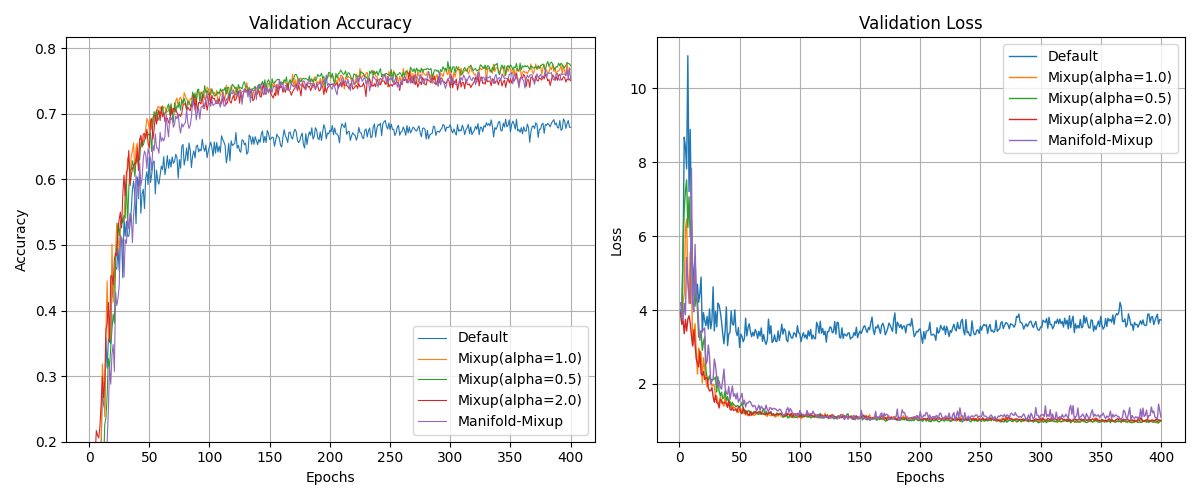
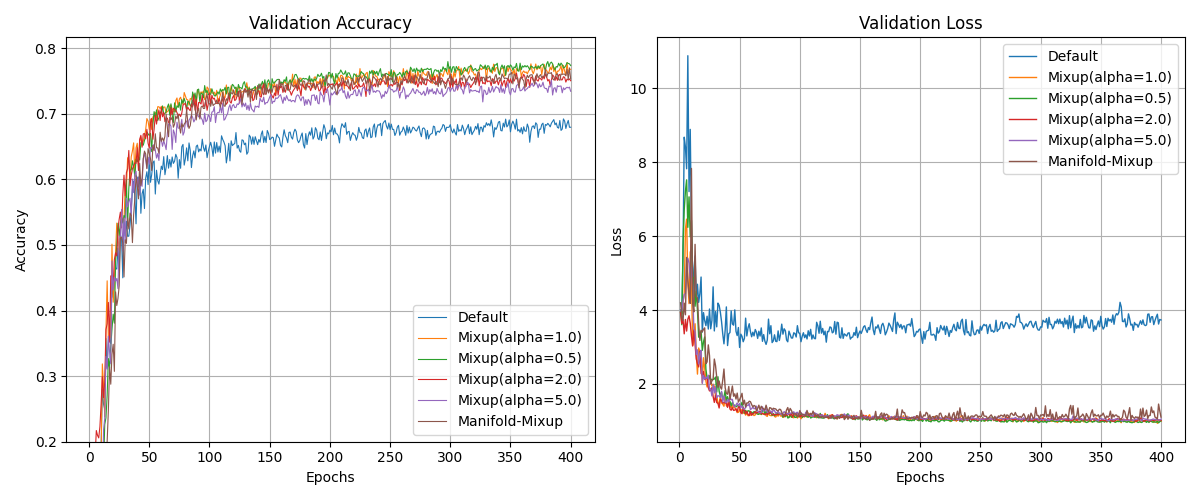
manifold mixup exp.

diff --git a/result.py b/result.py
@@ -22,6 +22,7 @@ def main():
         "Mixup",
         "Mixup(alpha=0.5)",
         "Mixup(alpha=2.0)",
+        "Mixup(alpha=5.0)",
         "Manifold-Mixup",
 
         # "Mixup-Curriculum",
@@ -91,6 +92,8 @@ def plot_comparison_graph_train(model_type, augmentations, data_type, epoch, ite
             augment = "FOMA_latent"
         elif augment == "Mixup":
             augment = "Mixup(alpha=1.0)"
+        elif augment == "Manifold-Mixup":
+            augment = "Manifold-Mixup(alpha=2.0)"
         plt.plot(epochs, train_acc, linestyle='solid', linewidth=0.8, label=f'{augment}')
         
     plt.title('Train Accuracy')
@@ -122,6 +125,8 @@ def plot_comparison_graph_train(model_type, augmentations, data_type, epoch, ite
             augment = "FOMA_latent"
         elif augment == "Mixup":
             augment = "Mixup(alpha=1.0)"
+        elif augment == "Manifold-Mixup":
+            augment = "Manifold-Mixup(alpha=2.0)"
         plt.plot(epochs, train_loss, linestyle='solid', linewidth=1, label=f'{augment}')
         
     plt.title('Train Loss')
@@ -160,6 +165,8 @@ def plot_comparison_graph(model_type, augmentations, data_type, epoch, iteration
             augment = "FOMA_latent"
         elif augment == "Mixup":
             augment = "Mixup(alpha=1.0)"
+        elif augment == "Manifold-Mixup":
+            augment = "Manifold-Mixup(alpha=2.0)"
         plt.plot(epochs, val_acc, linestyle='solid', linewidth=0.8, label=f'{augment}')
         
     plt.title('Validation Accuracy')
@@ -191,6 +198,8 @@ def plot_comparison_graph(model_type, augmentations, data_type, epoch, iteration
             augment = "FOMA_latent"
         elif augment == "Mixup":
             augment = "Mixup(alpha=1.0)"
+        elif augment == "Manifold-Mixup":
+            augment = "Manifold-Mixup(alpha=2.0)"
         plt.plot(epochs, val_loss, linestyle='solid', linewidth=1, label=f'{augment}')
         
     plt.title('Validation Loss')

diff --git a/src/models/wide_resnet.py b/src/models/wide_resnet.py
@@ -112,9 +112,13 @@ class Wide_ResNet(nn.Module):
                 out = self.linear(out)
                 return out
 
-        elif augment == "Manifold-Mixup":
+        elif augment.startswith("Manifold-Mixup(alpha=") and augment.endswith(")"):
             if aug_ok:
-                mixup_alpha = 1.0
+                try:
+                    mixup_alpha = float(augment[len("Manifold-Mixup(alpha="):-1])
+                except ValueError:
+                    pass  
+                    
                 layer_mix = random.randint(0,4)
                 out = x
                 

diff --git a/train.py b/train.py
@@ -22,14 +22,17 @@ from batch_sampler import extract_wrn_features, FeatureKNNBatchSampler, HybridFO
 augmentations = [
     # "Default",
     # "Mixup",
-    "Manifold-Mixup",
+    # "Manifold-Mixup",
+    "Manifold-Mixup(alpha=0.5)",
+    "Manifold-Mixup(alpha=1.0)",
+    "Manifold-Mixup(alpha=5.0)",
 
     # "Mixup-Curriculum",
 
-    "Mixup(alpha=0.5)",
+    # "Mixup(alpha=0.5)",
     # "Mixup(alpha=1.0)",
-    "Mixup(alpha=2.0)",
-    "Mixup(alpha=5.0)",
+    # "Mixup(alpha=2.0)",
+    # "Mixup(alpha=5.0)",
 
     # "FOMA",
     # "FOMA_latent_random",

diff --git a/src/utils.py b/src/utils.py
@@ -164,7 +164,7 @@ def train(model, train_loader, criterion, optimizer, device, augment, num_classe
             # if batch_idx == 0:
             #     visualize_batch(images, labels, augment, n=10)
 
-        elif augment == "Manifold-Mixup":
+        elif augment.startswith("Manifold-Mixup"):
             preds, y_a, y_b, lam = model(images, labels, device, augment, aug_ok=True)
             loss = mixup_criterion(criterion, preds, y_a, y_b, lam)
             

diff --git a/sandbox.py b/sandbox.py
@@ -1,0 +1,4 @@
+augment = "Manifold-Mixup(alpha=0.5)"
+
+alpha = float(augment[len("Manifold-Mixup(alpha="):-1])
+print(alpha + 3.0)
